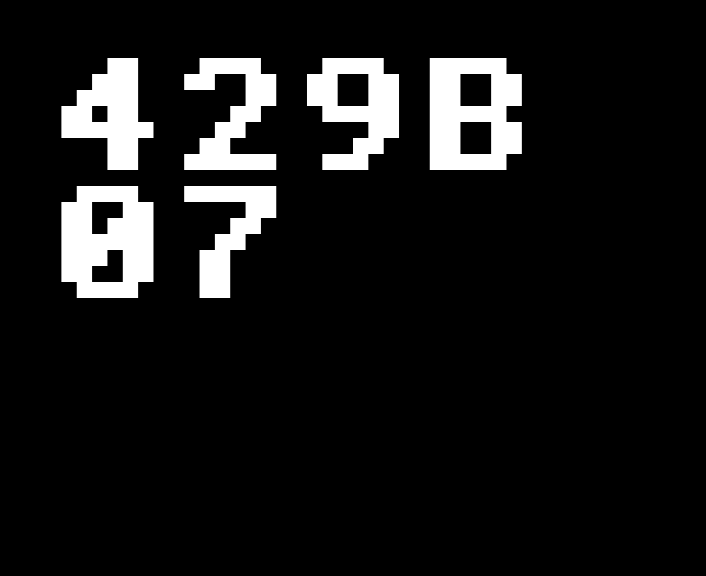
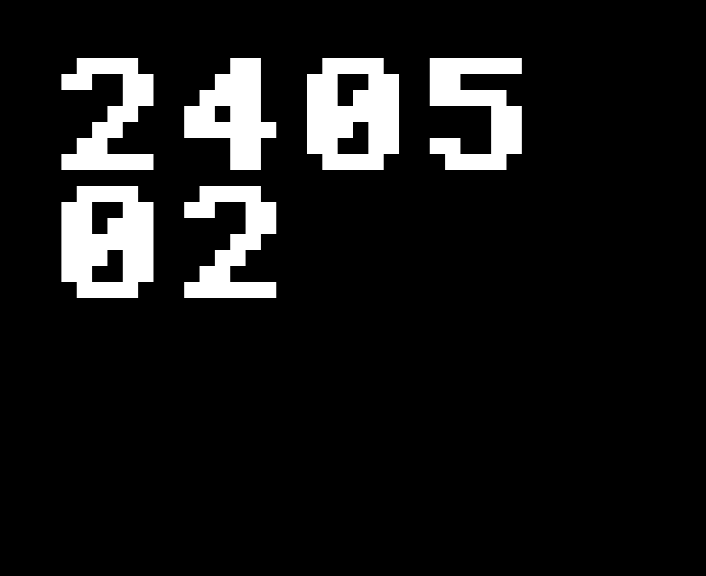
Tweak some version stuff a bit.
* embed git build suffix in the ROM, discernible with a hex editor

* display version date/commit hash from the ROM UI on the BBC

diff --git a/README.md b/README.md
@@ -232,16 +232,23 @@ You can tap the following keys:
 
 - `X` - memory test failure example display
 
+- `f1` - ROM build version
+
 ## Memory test failure example display
 
-Shows an example of the memory test failure display. (The address and
-mask shown are meaningless.)
+Shows an example of the memory test failure display, so you can get an
+idea of what to expect, and gauge how readable it'll be.
 
-Should look like this Mode 7: [./mode_7_failure.png](./mode_7_failure.png)
+Should look a bit like this Mode 7:
+[./mode_7_failure.png](./mode_7_failure.png)
 
-Should look like this otherwise:
+Should look a bit like this otherwise:
 [./mode_4_failure.png](./mode_4_failure.png) (this is a bitmap Mode 4
 display, not using the teletext-style addressing mode)
+
+(The actual values shown are the year, month and day of the ROM
+version, as per the zip file name, with a `D` if running on Master
+128.)
 
 As with the real failure display, you'll have to press BREAK to get
 back to the initial state.
@@ -410,6 +417,14 @@ If the screen wraps round (e.g., displaying Mode 0 or 2 starting at
 $4000), the flashing cursor indicates where the wraparound back to
 $3000 occurred. The wraparound size is always 20 KB.
 
+## ROM build version
+
+Same as the example memory test error display, but displays the ROM
+build version, a hex string that represents the specific version of
+the code that this ROM was built from - as per the .zip file name.
+
+You'll see 6 hex digits on B/B+ and 7 hex digits on the Master.
+
 # Other testing tools
 
 OS ROM replacements for use with completely dead BBC:
@@ -465,6 +480,9 @@ The build process is supposed to be silent when there are no errors.
 The output is multiple ROM images, as described above, in folders
 inside `build`: `build/16` (16 KB ROMs), `build/32` (32 KB ROMs), and
 so on.
+
+One additional note: the ROM build date and build version (as seen by
+pressing `X` or `f1`) will be fixed values.
 
 # Licence
 
